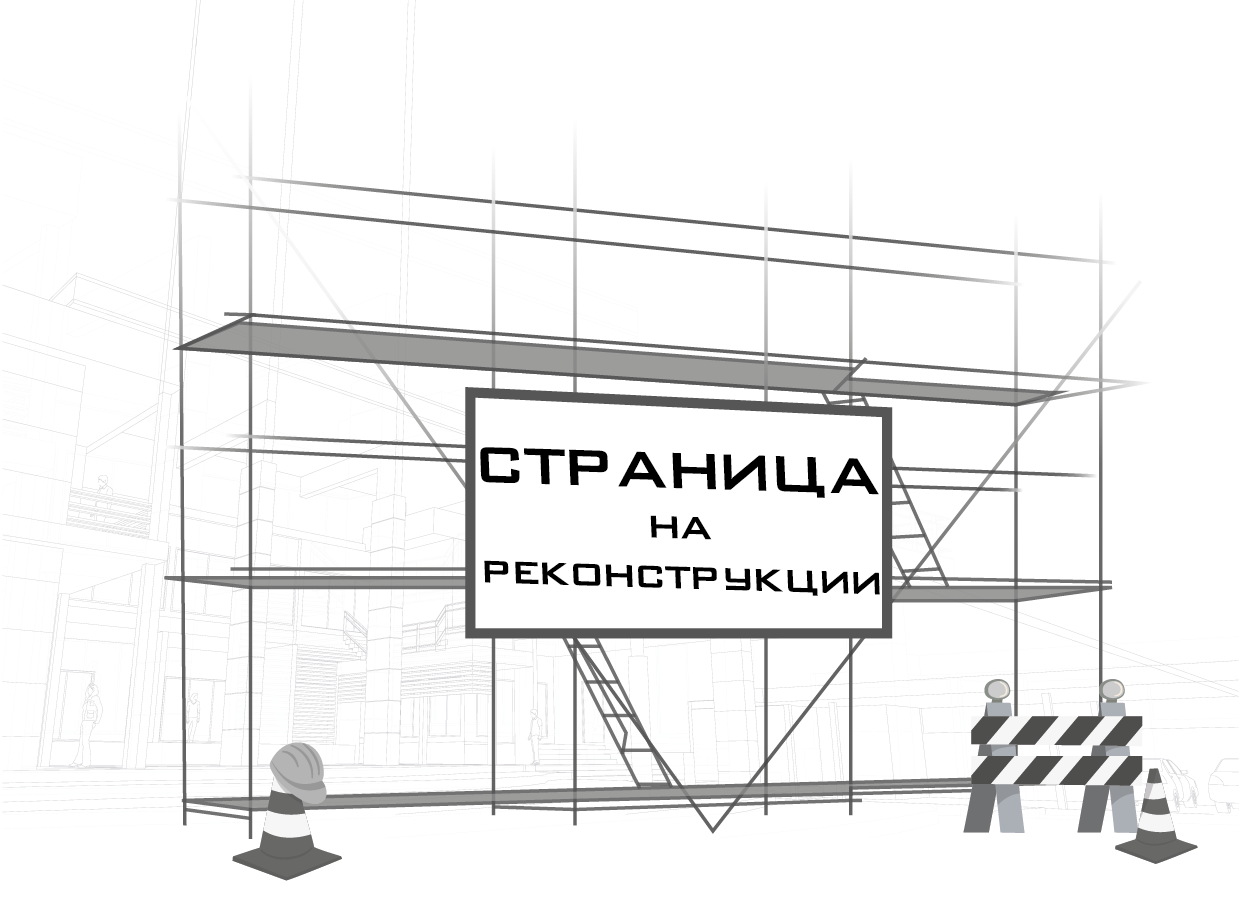
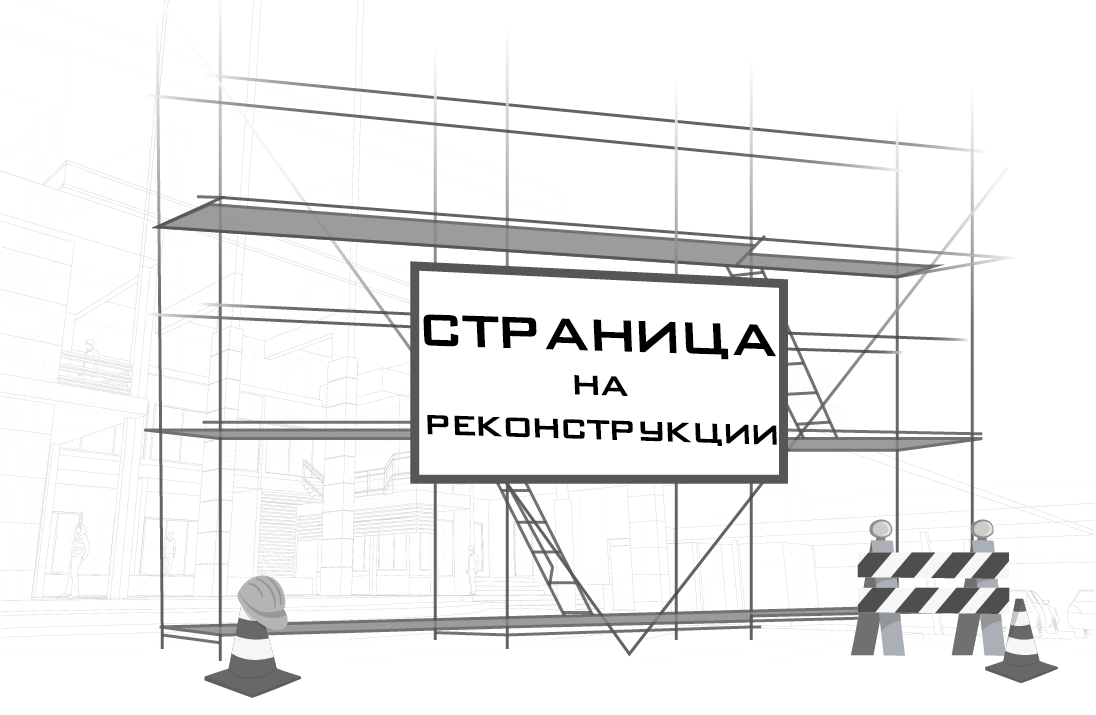
add component Renovation

Changed region(s): [[0.1241, 0.1231, 0.9617, 0.9846], [0.1551, 0.0923, 0.3102, 0.1538], [0.062, 0.8308, 0.0931, 0.8615]]

diff --git a/components/renovation/renovation.module.scss b/components/renovation/renovation.module.scss
@@ -4,6 +4,8 @@
     .Renovation__image {
         margin: 0 auto;
         display: block;
+        width: 57.083vw;
+        height: 37.24vw;
     }
     .Renovation__form {
         margin-bottom: 4rem;
